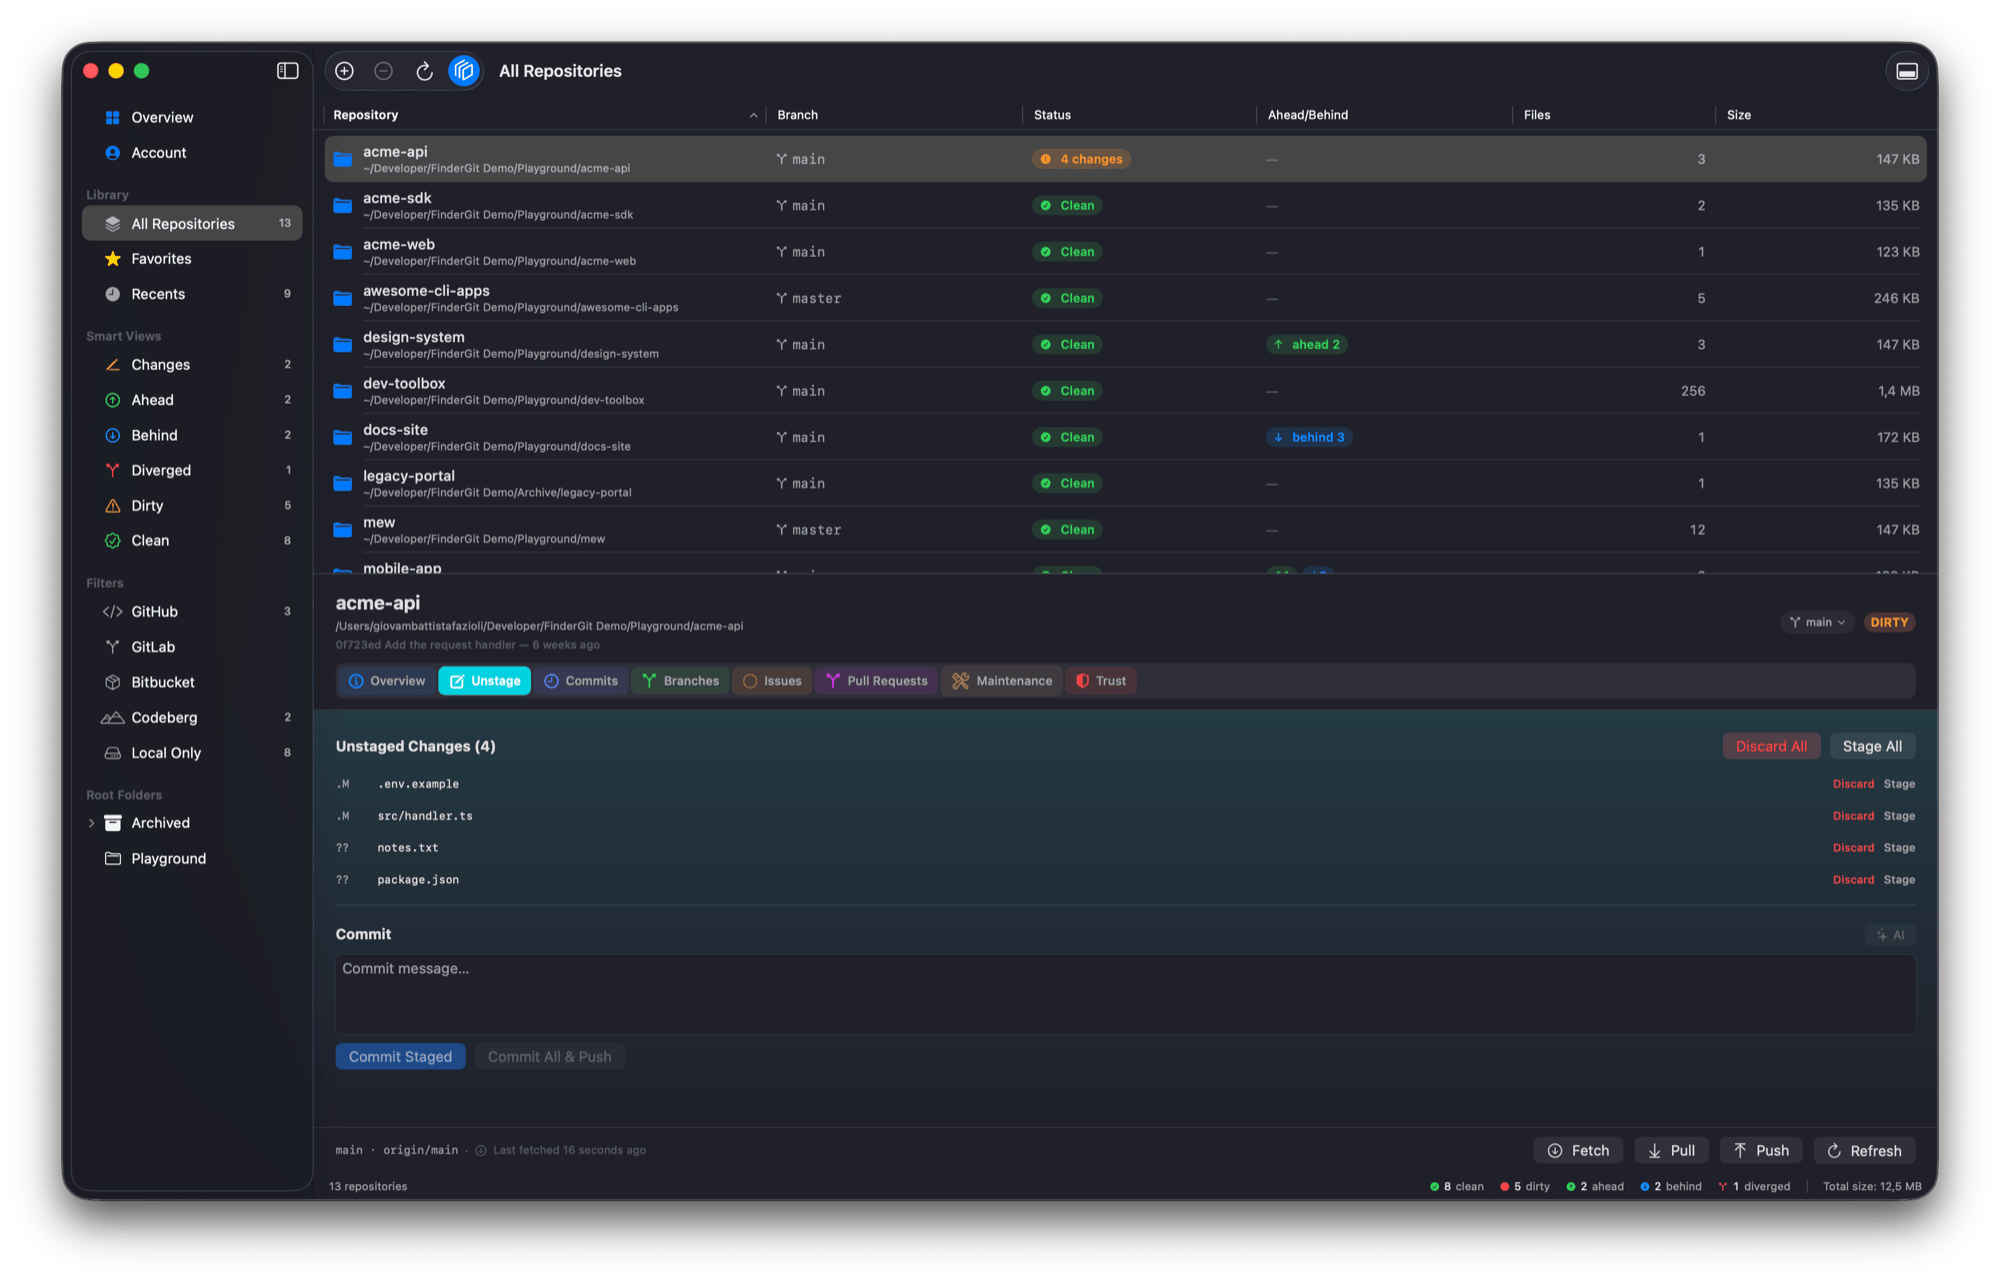
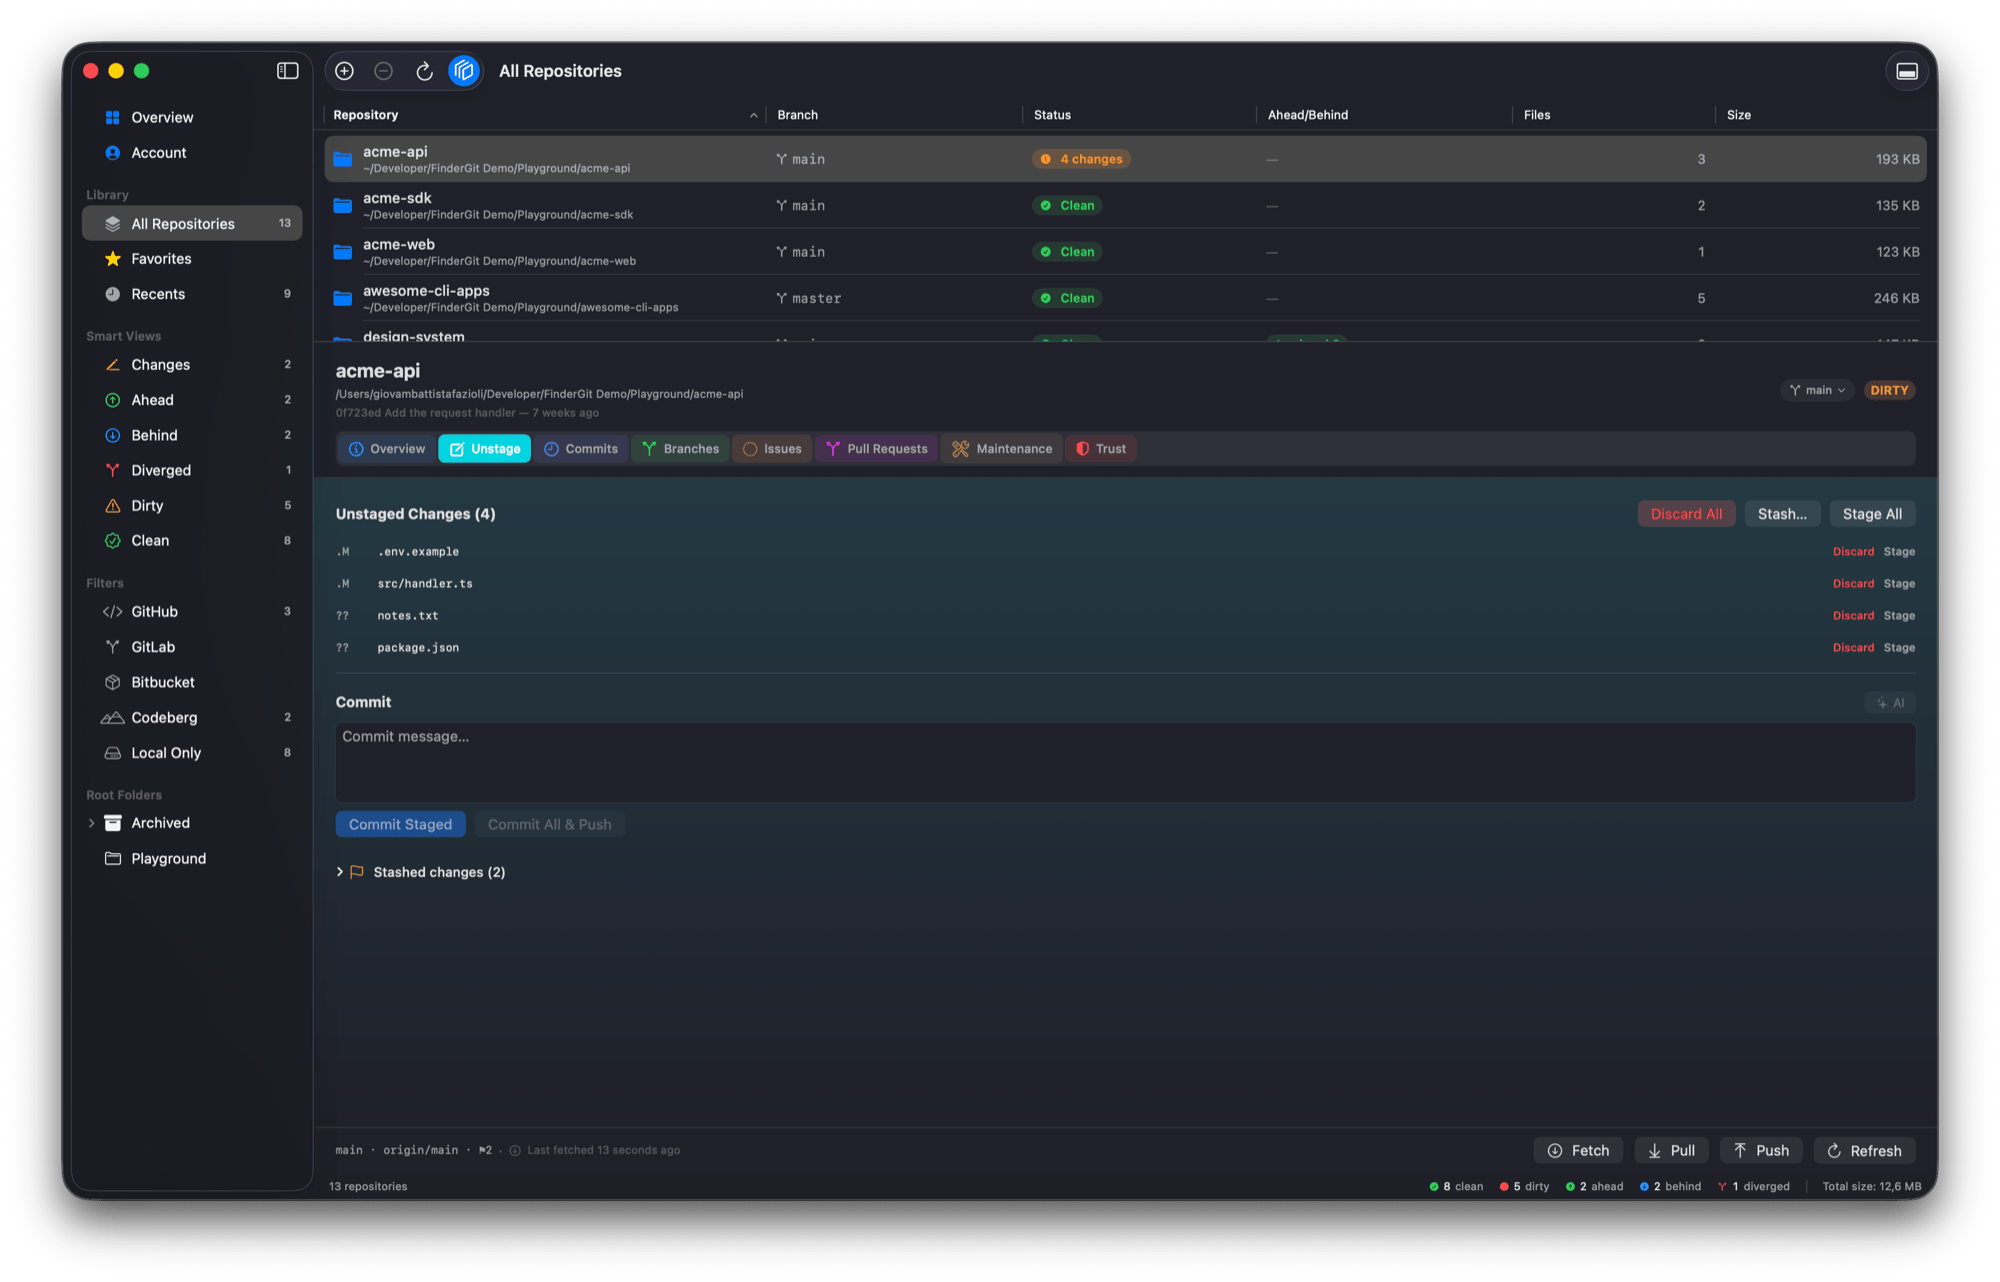
feat(sparkle): publish FinderGit v0.28.0 to appcast

diff --git a/public/release-notes/0.28.0.html b/public/release-notes/0.28.0.html
@@ -1,0 +1,103 @@
+<!DOCTYPE html>
+<html lang="en">
+<head>
+<meta charset="utf-8">
+<meta name="viewport" content="width=device-width, initial-scale=1">
+<title>FinderGit 0.28.0 — Release Notes</title>
+<style>
+  :root {
+    color-scheme: light dark;
+    --bg: #ffffff;
+    --fg: #1a1a1a;
+    --accent: #007aff;
+    --muted: #6b6b73;
+    --code-bg: #f4f4f5;
+    --border: rgba(0,0,0,0.12);
+  }
+  @media (prefers-color-scheme: dark) {
+    :root {
+      --bg: #1c1c1e;
+      --fg: #ececec;
+      --muted: #9c9ca5;
+      --code-bg: #2c2c2e;
+      --border: rgba(255,255,255,0.14);
+    }
+  }
+  * { box-sizing: border-box; }
+  body {
+    font: 14px/1.55 -apple-system, BlinkMacSystemFont, "SF Pro Text", "Helvetica Neue", sans-serif;
+    color: var(--fg);
+    background: var(--bg);
+    margin: 0 auto;
+    padding: 20px 24px 40px;
+    max-width: 720px;
+  }
+  header.page-header {
+    border-bottom: 1px solid var(--border);
+    padding-bottom: 14px;
+    margin-bottom: 22px;
+  }
+  header.page-header h1 { font-size: 1.7em; margin: 0 0 4px; letter-spacing: -0.02em; }
+  header.page-header .subtitle { color: var(--muted); margin: 0; font-size: 0.92em; }
+  h1, h2, h3, h4 { letter-spacing: -0.01em; margin: 1.5em 0 0.5em; }
+  h1 { font-size: 1.4em; }
+  h2 { font-size: 1.2em; }
+  h3 { font-size: 1em; }
+  a { color: var(--accent); }
+  hr { border: 0; border-top: 1px solid var(--border); margin: 22px 0; }
+  ul, ol { padding-left: 1.4em; }
+  li { margin: 4px 0; }
+  code {
+    font: 0.9em ui-monospace, "SF Mono", Menlo, Consolas, monospace;
+    background: var(--code-bg);
+    padding: 1px 5px;
+    border-radius: 3px;
+  }
+  pre {
+    background: var(--code-bg);
+    padding: 12px 14px;
+    border-radius: 6px;
+    overflow-x: auto;
+    font-size: 0.88em;
+  }
+  pre code { background: transparent; padding: 0; font-size: 1em; }
+  blockquote {
+    margin: 12px 0;
+    padding-left: 12px;
+    border-left: 3px solid var(--border);
+    color: var(--muted);
+  }
+  table { border-collapse: collapse; width: 100%; margin: 12px 0; font-size: 0.95em; }
+  th, td { border: 1px solid var(--border); padding: 6px 10px; text-align: left; }
+  th { background: var(--code-bg); }
+  img { max-width: 100%; }
+</style>
+</head>
+<body>
+<header class="page-header">
+  <h1>FinderGit 0.28.0</h1>
+  <p class="subtitle">Release notes</p>
+</header>
+<h2>New</h2>
+<p><strong>Stash — set the working tree aside without committing it.</strong></p>
+<p>The Unstage tab now carries a <strong>Stash…</strong> button beside Stage All and Discard All, because it is the third answer to the same question — what do I do with these changes right now — and the only one that is neither destructive nor a commitment. Give the stash a message, or leave it blank and let git name it after your last commit. Untracked files go along, so the tree is genuinely clean afterwards rather than half-stashed.</p>
+<p>Everything you have set aside is listed under the commit box as <strong>Stashed changes (N)</strong>, collapsed until you want it. Each entry shows the branch it came from, how long it has been waiting, and a quiet <strong>Automatic</strong> badge when the text is git's rather than yours — so a subject you never typed doesn't read as a description you chose. Three actions per row:</p>
+<ul>
+<li><strong>Pop</strong> — bring the work back and remove the stash</li>
+<li><strong>Apply</strong> — bring it back and keep the stash</li>
+<li><strong>Drop</strong> — delete it without applying, behind a confirmation that says plainly the changes are not applied first</li>
+</ul>
+<p>If a pop hits a conflict, the conflict lands in your files and <strong>the stash stays put</strong>. Nothing is lost, the entry is still on the list, and you can try again once you have resolved it. On a clean tree, stashing tells you <strong>"Nothing to stash"</strong> rather than claiming it saved something you would later go looking for.</p>
+<p>Dates and ages are shown in your language, and the whole feature is translated into Italian, French, German and Spanish along with the rest of the app.</p>
+<p><strong>File → Remove Root Folder.</strong> Removing a root folder used to be something only the pointer could do, through the ⊖ button in the sidebar. It now has a menu item, acting on the folder selected in the window you are actually using — so it does the right thing with more than one window open.</p>
+<h2>Fixed</h2>
+<p><strong>A failed action no longer goes quiet.</strong> When a git action failed, the red warning in the action bar could vanish a second or two later — on exactly the actions that had changed something on disk, because re-reading the repository overwrote the message with "nothing wrong here". The failure now outlives every refresh, which is what "Last action failed" always claimed to mean. Most visible with a stash that pops into a conflict, but it applies to pull and to updating a fork as well.</p>
+<h2>Under the hood</h2>
+<ul>
+<li>Update signatures are produced with the same auto-update toolchain the app ships, rather than whichever copy happened to be on the release machine (#161). No effect on installed copies; it removes a way for a release to be signed with a key the app would not accept.</li>
+<li>An action's failure and a status read's failure are now separate pieces of state. They shared one field, so any background refresh could clear the wrong one.</li>
+<li>A stash is identified by its own commit hash rather than its position in the list. Positions renumber the moment anything is removed, so a confirmation left open could have acted on a different stash than the one on screen.</li>
+<li>407 tests.</li>
+</ul>
+</body>
+</html>

diff --git a/config/index.ts b/config/index.ts
@@ -92,7 +92,7 @@ export default {
     defaultLanguage: 'en',
   },
   app: {
-    version: '0.27.1',
+    version: '0.28.0',
     minMacOS: '15.0',
     downloadUrl: 'https://github.com/gfazioli/findergit-website/releases/latest',
   },
